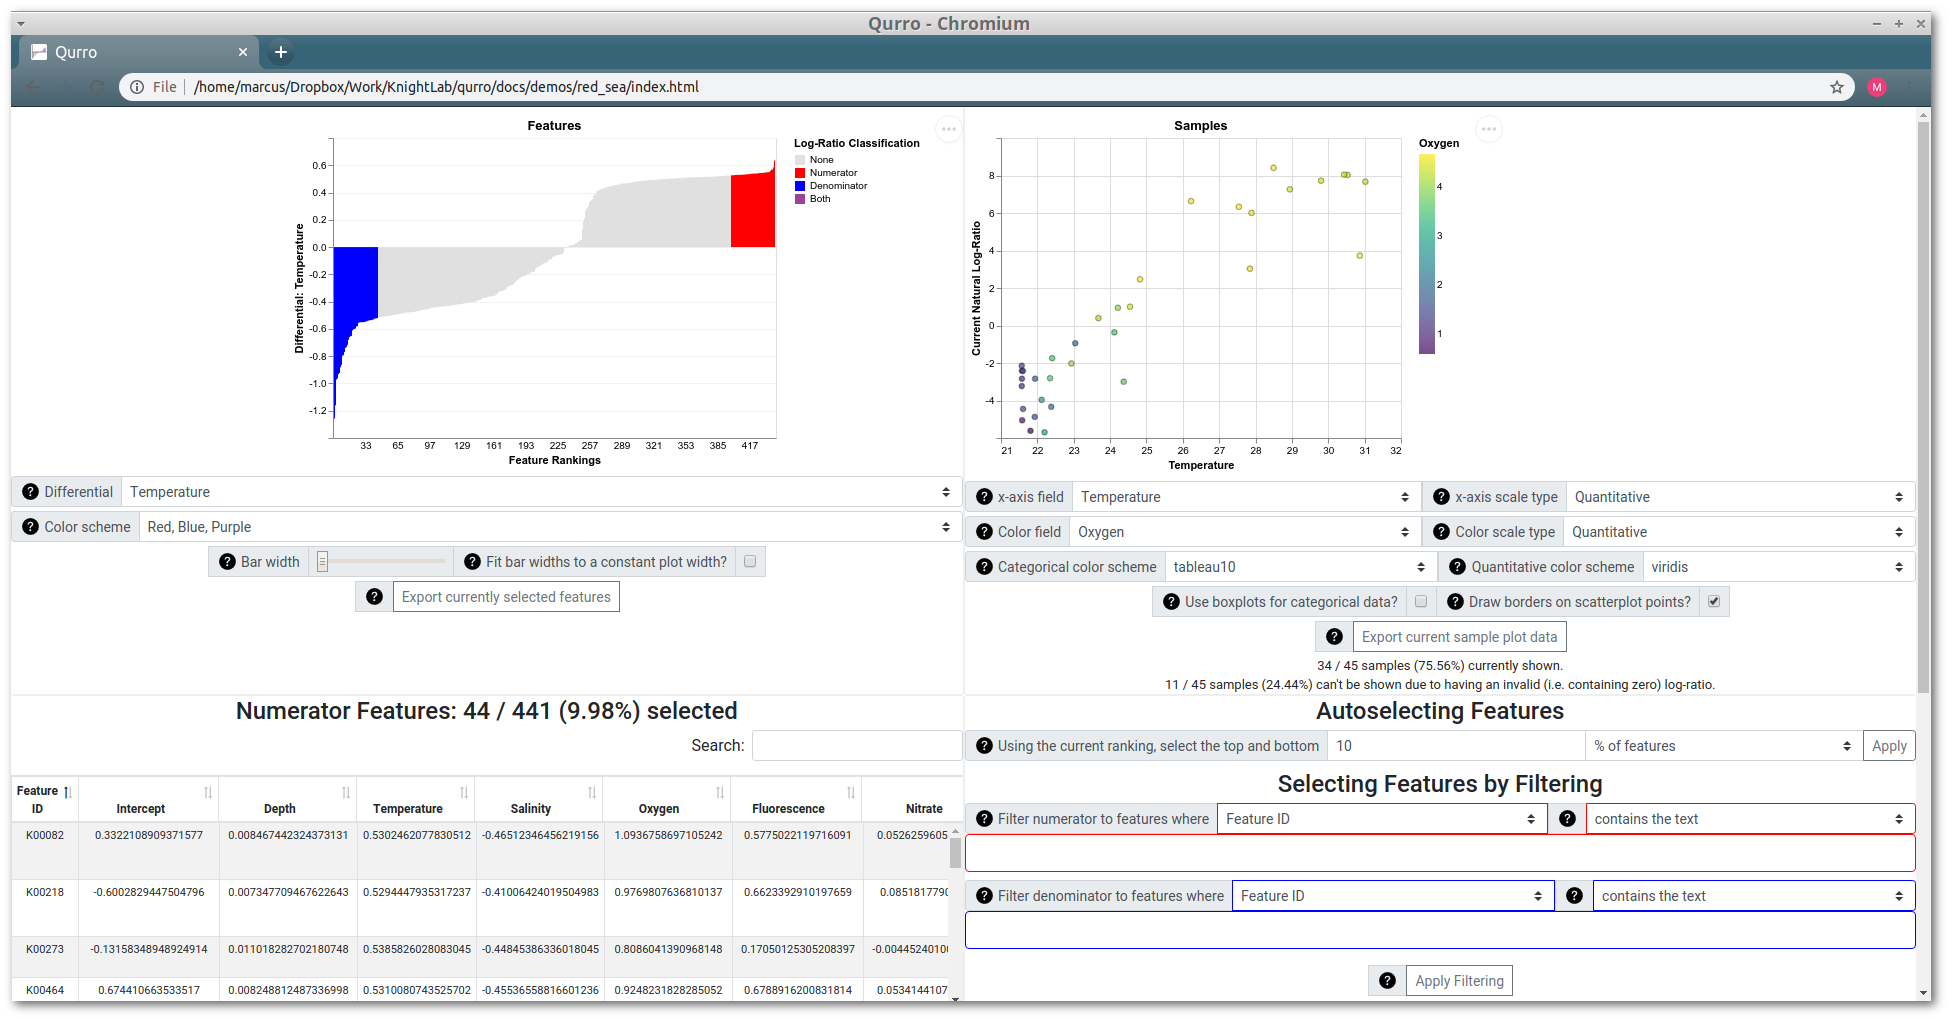
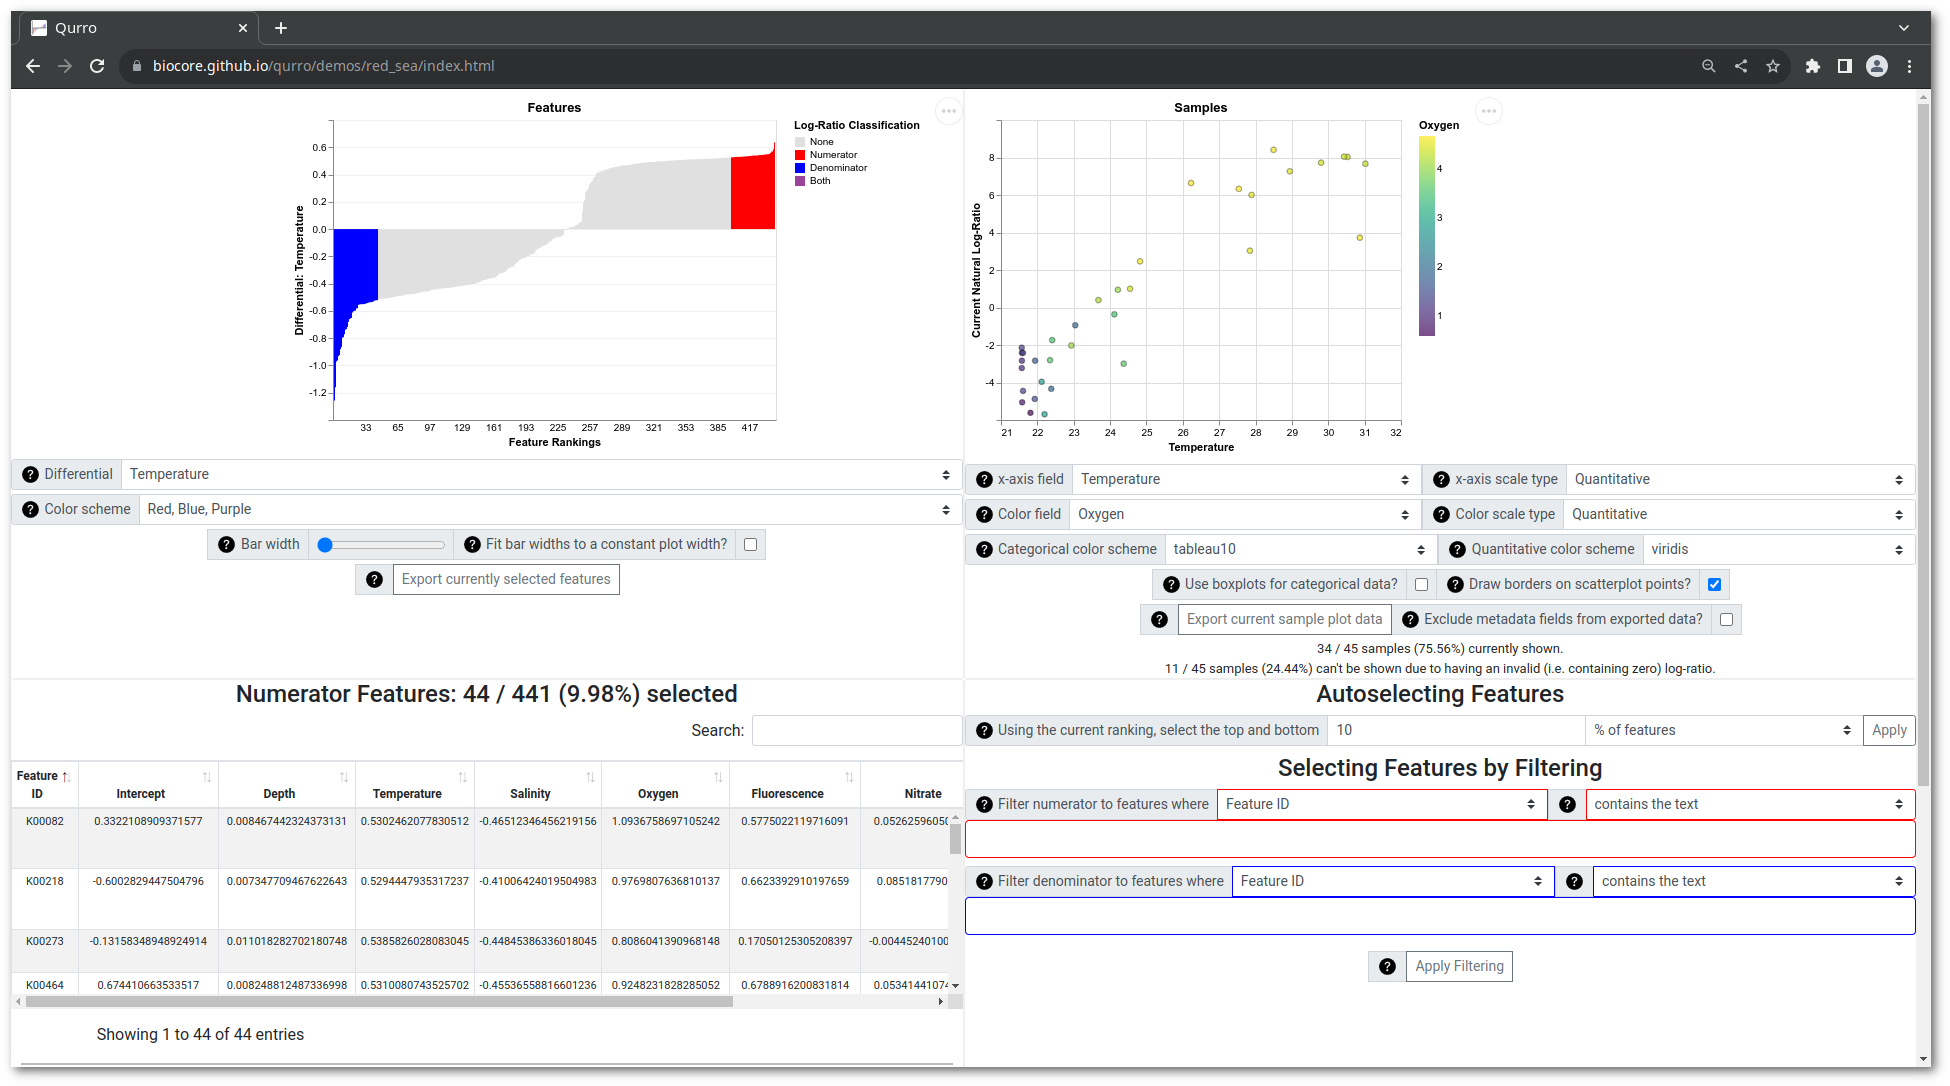
Black vs. Click fix + test, (dev)docs, etc. (#325)
* DEV/DEP: update note about black + q2 vsns

* BLD: test on two additional Q2 versions

And document supported versions better in the CI.

* REL: update changelog

* DEV/BLD: Document and catch Q2 CLI breaking thing

ha -- so it doesn't impact the tests but it does impact the CLI (i
shoulda documented this clearer when i first saw it), and now this
will be reflected in the build. This build should now fail.

* DEV: fix up dev docs re: q2 vsn

* DOC: update redsea screenshot

* DEP: fix black --> click --> qiime2 conflict

* STY: Re-format python using black 21.12b0

Since we pinned it in this PR. Shoulda done this with the previous
commit, whoops

* DEV: note about dev environment

* DEP: Omit Black from dev deps; update dev docs+CI

I think this is one of the more painless solutions to this problem.
Eesh.

* REL: note black vs. click issue in chglog

* DEV: update makefile

(forgor)

* DOC: update README & CHANGELOG re: requirements

* REL: changelog tense, etc.

diff --git a/setup.py b/setup.py
@@ -100,9 +100,6 @@ setup(
             "pytest >= 4.2",
             "pytest-cov >= 2.0",
             "flake8",
-            # If we don't pin black to being at least 22.3.0, then it and click
-            # will conflict w/ an error: https://github.com/psf/black/pull/2966
-            "black >= 22.3.0",
             "nbconvert",
         ]
     },

diff --git a/CONTRIBUTING.md b/CONTRIBUTING.md
@@ -10,16 +10,25 @@ in this repository or email the Qurro development team
 
 ## Setting up a development environment
 
+We'll use a QIIME 2 environment as the basis for creating our "development
+environment" -- this is convenient because some of Qurro's tests rely on QIIME
+2 being installed. (You could also create a development environment that does
+not use QIIME 2, some of Qurro's tests would not be able to be run in such an
+environment.)
+
 1. Fork Qurro.
 1. Clone your fork of Qurro's source code to your computer.
 2. Create a development conda environment for Qurro:
     1. Install the latest version of QIIME 2 natively,
-       [as you would normally](https://docs.qiime2.org/2022.2/install/native/).
-       _You'll need to install a QIIME 2 version of at least 2020.11._
+       [as you would normally](https://docs.qiime2.org/2022.8/install/native/).
+       _You'll need to install a QIIME 2 version of at least 2022.8._
     2. In a terminal, navigate to the folder to which you cloned your fork of
        Qurro's source code above. Run `pip install -e .[dev]` inside this folder to
        install Qurro along with its normal and development Python dependencies.
-    3. Install the various Node.js requirements for testing Qurro's JavaScript
+    3. Install Black: `pip install "black >= 22.3.0"`. We don't include this in
+       the development dependencies for reasons that are explained later in
+       this document.
+    4. Install the various Node.js requirements for testing Qurro's JavaScript
        code. This can be done by running
        `npm install -g mocha-headless-chrome jshint prettier@2.0.5 nyc`. Note that
        this will install these programs globally on your system.
@@ -53,22 +62,24 @@ generated by Qurro's Python tests, and is used to populate some of the
 JavaScript tests. Long story short, you'll just need to run `make test` (or
 just `make pytest`) before running `make jstest`.
 
-### When running QIIME 2, Qurro, etc. I get `TypeError: __init__() got multiple values for argument 'obj'`
+### When running `qiime`, `qiime qurro`, etc. from the CLI I get `TypeError: __init__() got multiple values for argument 'obj'`
 
-This happens due to a [Click](https://click.palletsprojects.com/en/8.1.x/)
+This happens due to a [Click](https://click.palletsprojects.com/)
 version being installed that is unsupported by
 QIIME 2. See [this q2cli issue](https://github.com/qiime2/q2cli/issues/259) for
 context. This can come up in development because one of Qurro's development
-dependencies is
-[Black](https://github.com/psf/black), and later versions of Black can rely
-on Click 8 (and as of writing QIIME 2 doesn't seem to support Click 8 yet).
+dependencies (used for auto-formatting and format-checking the Python code) is
+[Black](https://github.com/psf/black), and later versions of Black rely
+on Click 8 (and versions of QIIME 2 before 2022.8 do not support Click 8).
 
-If you run into this error, you can probably get around it by installing an
-older version of Black, although earlier versions of Click might disagree with
-the later versions that we use in the CI. There isn't a great solution for this
-yet that I know of (short of pinning Black to an earlier version and
-reformatting all the Python code accordingly...), but hopefully when QIIME 2
-supports Click 8 the problem will vanish.
+Pinning to an older version of Black causes another problem, because -- in this
+case -- the newer version of Click used in QIIME 2 2022.8 environments will
+break Black (with [this error](https://github.com/psf/black/issues/2964)).
+
+So, we get around this issue by removing Black from our development
+dependencies completely. If you installed a version of QIIME 2 of at least
+2022.8, then installing Black (in the directions above) should not cause
+problems (or at least it should not cause these particular problems).
 
 ## Acknowledgements
 

diff --git a/CHANGELOG.md b/CHANGELOG.md
@@ -1,9 +1,9 @@
 # Qurro changelog
 
-## Qurro 0.8.0 (date TBD)
+## Qurro 0.8.0 (October 19, 2022)
 ### Features added
-- Add an option to Qurro's visualization interface to exclude metadata columns
-  from the "sample plot data" output TSV
+- Added an option to Qurro's visualization interface to exclude metadata
+  columns from the "sample plot data" output TSV
   ([#306](https://github.com/biocore/qurro/issues/306),
   [#313](https://github.com/biocore/qurro/pull/313)).
   - This should make it easier to merge the sample log-ratios exported from
@@ -12,25 +12,35 @@
     [Gemelli](https://github.com/biocore/gemelli)'s tutorials.)
 ### Backward-incompatible changes
 - Switched the required pandas version from `>= 0.24.0, <1` to `>= 1`.
-  This makes Qurro now compatible with QIIME 2 versions `>= 2020.11`!
+  **This makes Qurro now compatible with QIIME 2 versions `>= 2020.11`!**
   - However, this change removes support for older QIIME 2 versions. (It may be
     possible to get this version of Qurro installed into an older QIIME 2
-    environment, but we do not explicitly support this.)
+    environment, but we do not explicitly support this.) If you need to use
+    Qurro in older QIIME 2 environments, you can install an older version of
+    Qurro (e.g. `pip install "qurro==0.7.1"`).
   - Notably, Songbird has not yet made the shift to pandas `>= 1`, so Songbird
     and Qurro will need to be installed into separate environments; the "Red
     Sea" example notebook details this process.
+- Updated a few other dependency versions to fix various problems (e.g.
+  explicitly requiring SciPy and pinning it to `scipy < 1.9.0` to fix
+  [this scikit-bio issue](https://github.com/biocore/scikit-bio/issues/1818),
+  removing Black from the development dependencies for reasons discussed in
+  [`CONTRIBUTING.md`](https://github.com/biocore/qurro/blob/master/CONTRIBUTING.md)).
 ### Bug fixes
 ### Performance enhancements
 ### Miscellaneous
-- Improve various parts of Qurro's code to remove various warnings (for
+- Updated various parts of Qurro's code to remove various warnings (for
   example, about certain things being deprecated).
-- Update Qurro's example notebooks:
+- Updated Qurro's example notebooks:
   - Updated the "Red Sea" notebook to explain how to use
     Songbird and Qurro in different conda environments.
   - Updated the "ALDEx2" notebook to explain how we recommend installing ALDEx2
     nowadays.
 - Updated the documentation to refer to the published version of the Mackerel
   data's paper ([Minich et al. 2020](https://journals.asm.org/doi/full/10.1128/mSphere.00401-20)).
+- Fixed various broken links in the documentation
+  ([#318](https://github.com/biocore/qurro/pull/318),
+  [#320](https://github.com/biocore/qurro/pull/320)).
 - Ported Qurro's continuous integration from Travis CI to GitHub Actions
   ([#316](https://github.com/biocore/qurro/issues/316)).
 - Improved Qurro's continuous integration in multiple ways:
@@ -38,8 +48,9 @@
   - Test the standalone Qurro functionality on multiple Python versions.
   - Test the standalone Qurro functionality in a non-QIIME-2 environment
     (similar to EMPress' "standalone" CI).
-- Updated the development documentation regarding the minimum QIIME 2 version,
-  incompatibilities between `black` and `click`, etc.
+- Updated the development documentation
+  ([`CONTRIBUTING.md`](https://github.com/biocore/qurro/blob/master/CONTRIBUTING.md))
+  regarding the minimum QIIME 2 version, dependency version issues, etc.
 
 ## Qurro 0.7.1 (May 22, 2020)
 ### Features added

diff --git a/README.md b/README.md
@@ -58,11 +58,7 @@ Qurro can be used standalone (as a Python 3 script that generates a
 folder containing a HTML/JS/CSS visualization) or as a
 [QIIME 2](https://qiime2.org/) plugin (that generates a QZV file that can be
 visualized at [view.qiime2.org](https://view.qiime2.org/) or by using
-`qiime tools view`). *Starting with Qurro v0.8.0, Qurro requires a QIIME 2
-version of at least 2020.11.*
-
-Qurro should work with most modern web browsers. Firefox or Chrome are
-recommended.
+`qiime tools view`).
 
 Qurro is still being developed, so backwards-incompatible changes might
 occur. If you have any bug reports, feature requests, questions, or if you just
@@ -85,7 +81,18 @@ can be viewed online [here](https://biocore.github.io/qurro/demos/red_sea/index.
 
 ## Installation and Usage
 
-You can install Qurro using [pip](https://pip.pypa.io/en/stable/) or [conda](https://docs.conda.io/en/latest/). In either case, a python version of at least 3.6 and less than 3.10 is required to use Qurro.
+You can install Qurro using [pip](https://pip.pypa.io/en/stable/)
+or [conda](https://docs.conda.io/en/latest/).
+
+### System requirements
+**If you're using Qurro within QIIME 2,** you will need a QIIME 2 version of at
+least 2020.11.
+
+**If you're using Qurro outside of QIIME 2,** you will need a Python version of
+at least 3.6 and less than 3.10.
+
+In either case, Qurro should work with most modern web browsers; Firefox or Chrome are
+recommended.
 
 ### Installing with `pip`
 ```bash
@@ -203,8 +210,11 @@ For python testing/style checking, Qurro uses
 [pytest-cov](https://github.com/pytest-dev/pytest-cov),
 [flake8](http://flake8.pycqa.org/en/latest/), and
 [black](https://github.com/ambv/black). You'll also need to have QIIME 2
-installed to run most of the python tests (your QIIME 2 version should be at
-least 2020.11; this is the version which switched to pandas >= 1).
+installed to run most of the python tests (note that, due to click vs. black
+vs. QIIME 2 dependency issues, you should use a QIIME 2 environment of at least
+2022.8; see
+[`CONTRIBUTING.md`](https://github.com/biocore/qurro/blob/master/CONTRIBUTING.md)
+for details).
 
 For JavaScript testing/style checking, Qurro uses
 [Mocha](https://mochajs.org/), [Chai](https://www.chaijs.com/),
